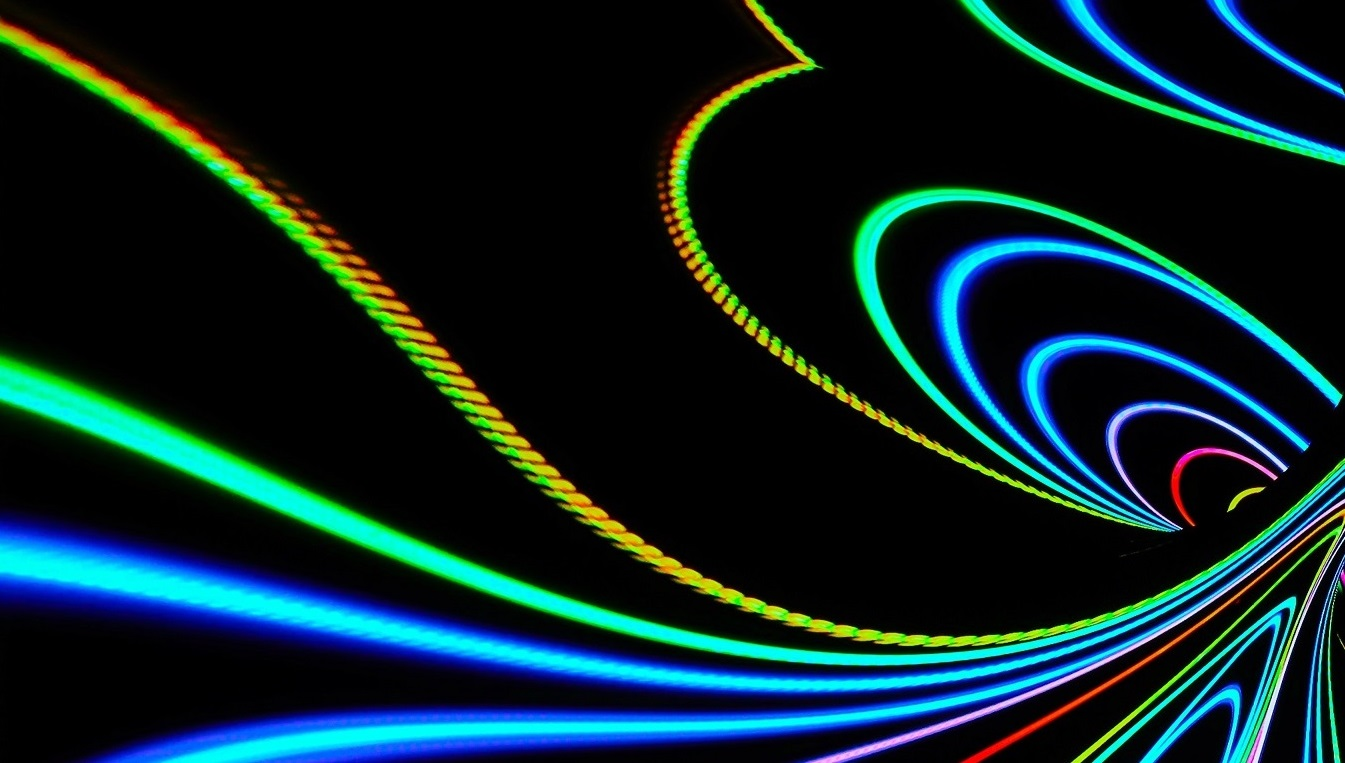
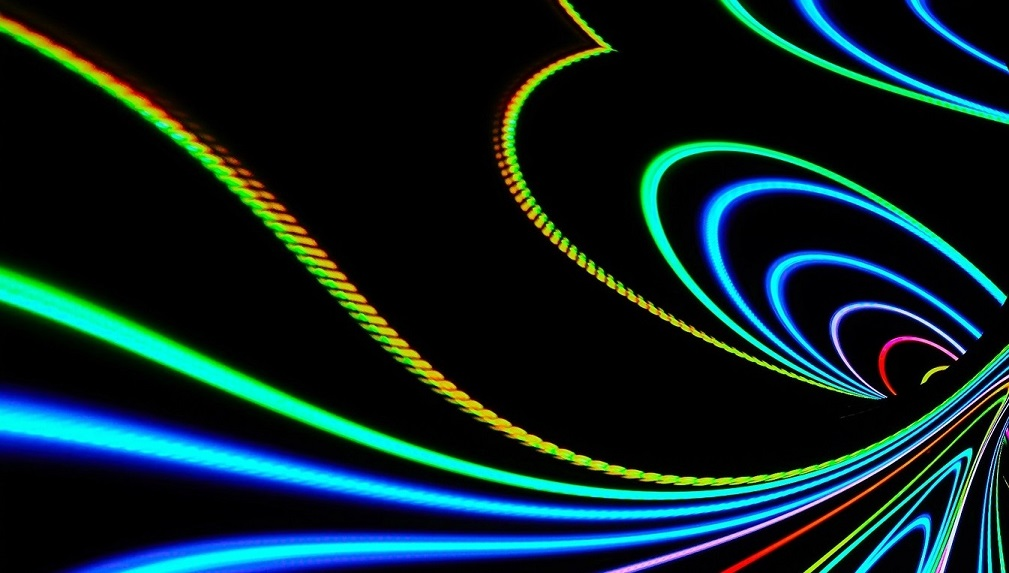
Updated hero image

diff --git a/style.css b/style.css
@@ -180,7 +180,7 @@ section .title::after{
 /* home section styling */
 .home{
     display: flex;
-    background: url("images/hero.jpg") no-repeat center;
+    background: url("images/hero.png") no-repeat center;
     height: 100vh;
     color: #fff;
     min-height: 500px;
